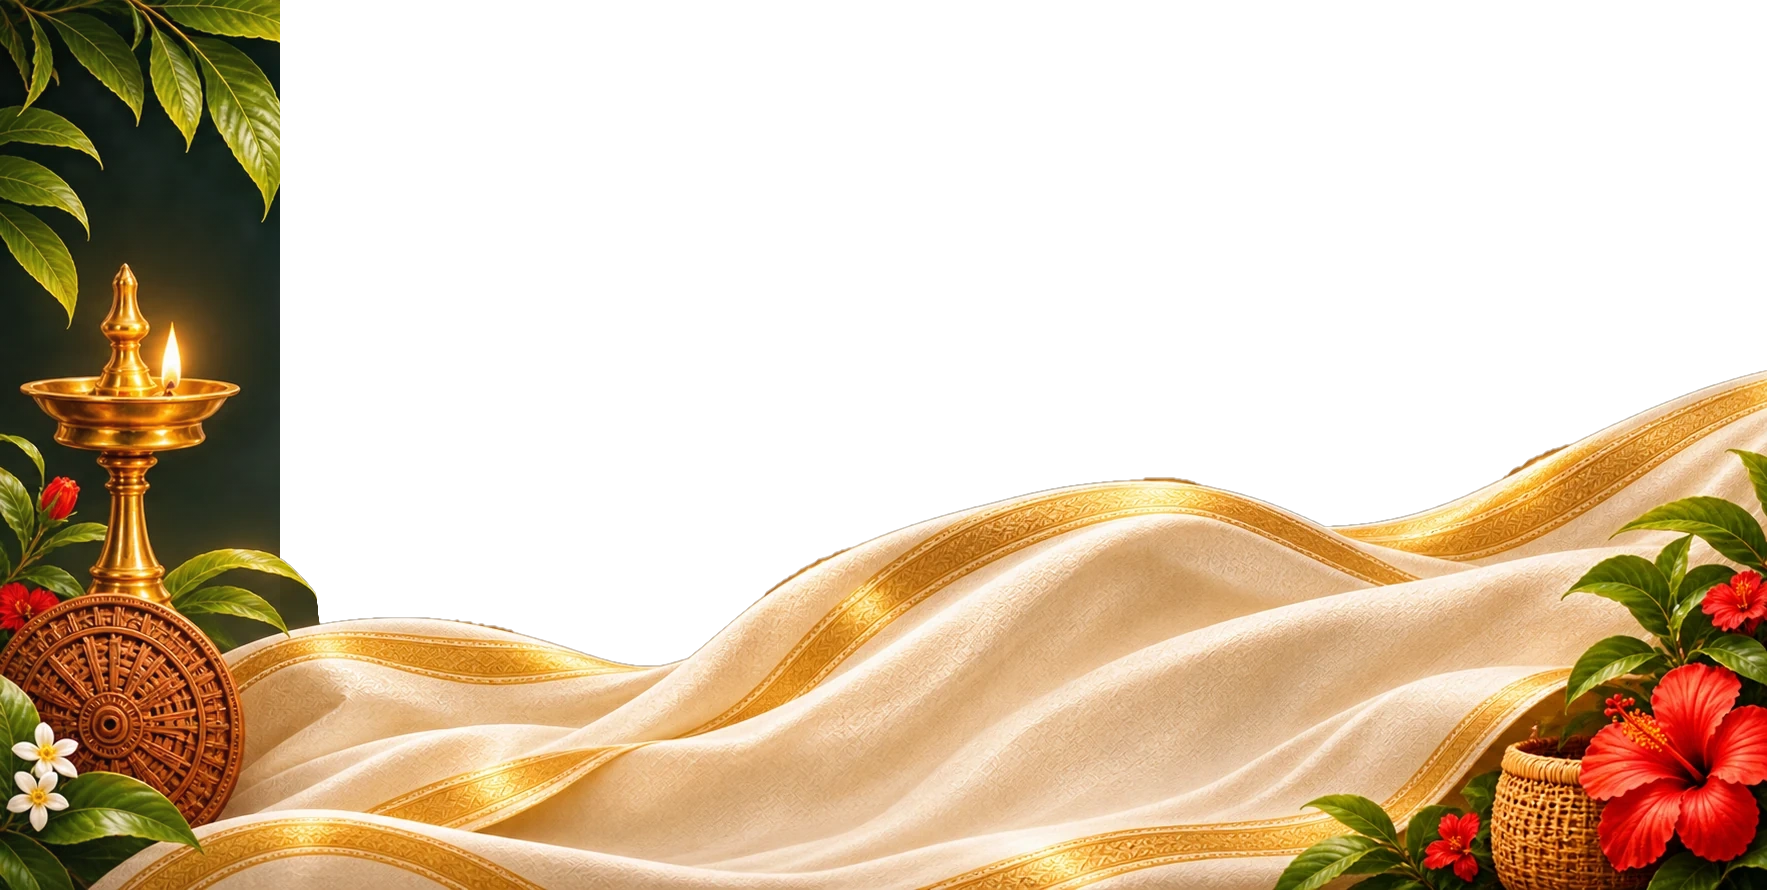
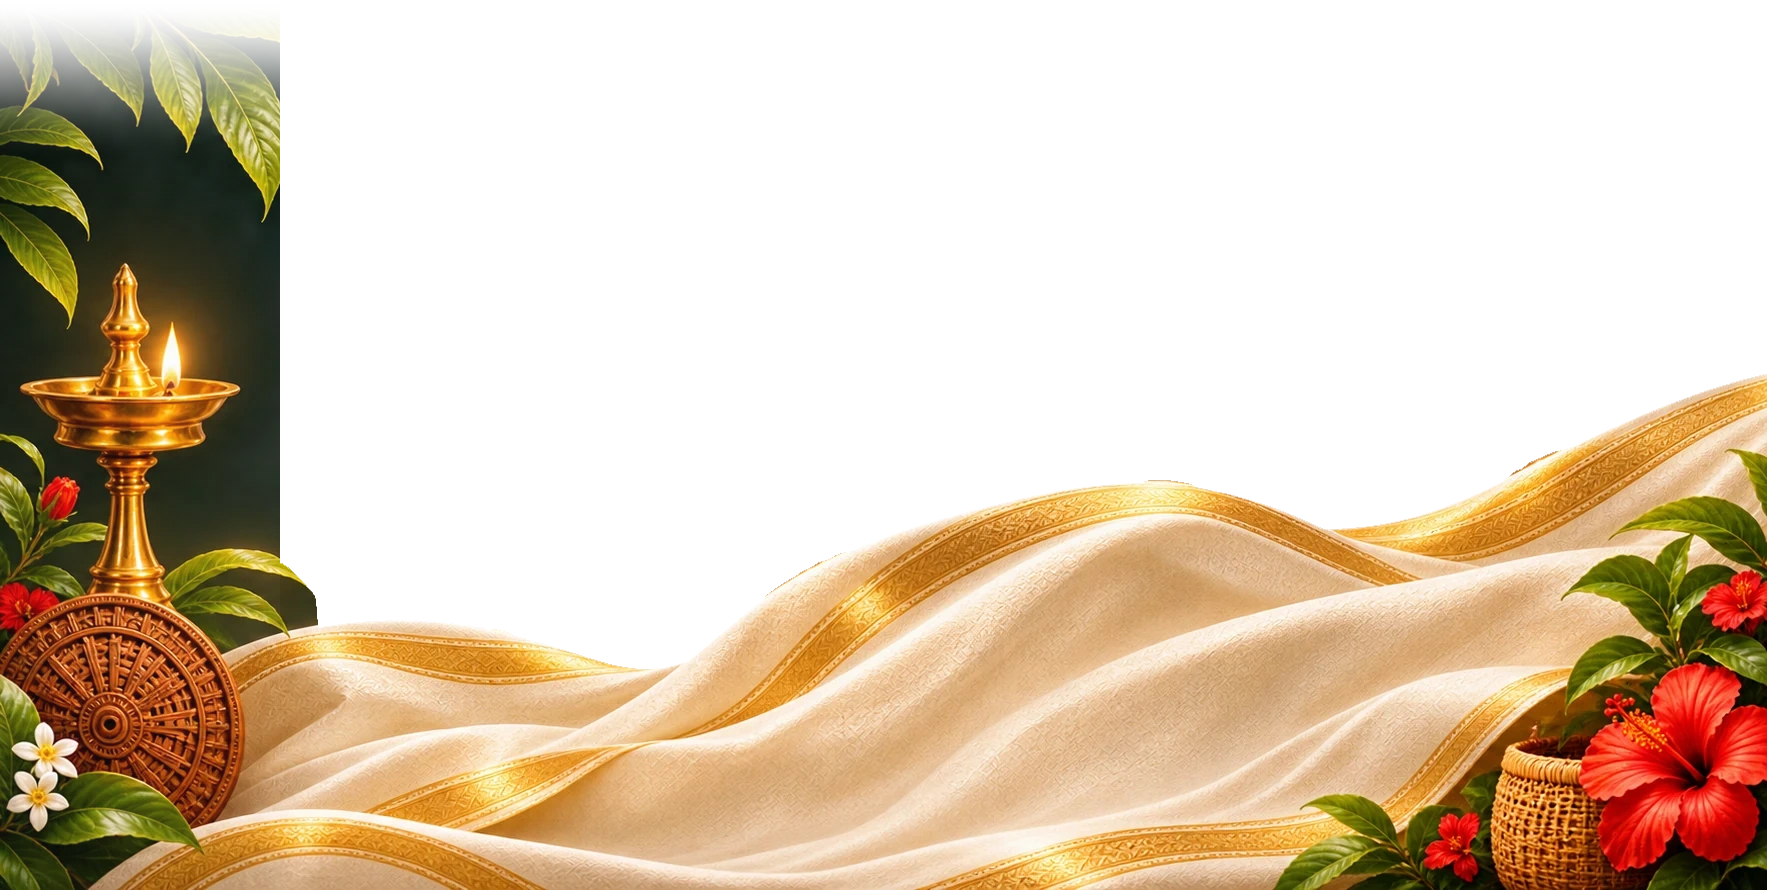
fix(hero): restore smooth top foliage fade and preserve clean Kasavu-Kathakali junction

diff --git a/src/app/hero-kerala.css b/src/app/hero-kerala.css
@@ -129,23 +129,11 @@
 .hero.lt-hero.mh .fg-mid {
   transform: none !important;
   will-change: auto !important;
-  -webkit-mask-image: linear-gradient(90deg, transparent 12%, #000 20%);
-  mask-image: linear-gradient(90deg, transparent 12%, #000 20%);
 }
 
-.hero.lt-hero.mh .fg-left {
-  z-index: 7;
-  transform: none !important;
-  will-change: auto !important;
-  transform-origin: 0 100%;
-  -webkit-mask-image: linear-gradient(90deg, #000 12%, transparent 20%), linear-gradient(180deg, transparent 0%, #000 20%);
-  mask-image: linear-gradient(90deg, #000 12%, transparent 20%), linear-gradient(180deg, transparent 0%, #000 20%);
-  -webkit-mask-composite: source-in;
-  mask-composite: intersect;
-}
-
+.hero.lt-hero.mh .fg-left,
 .hero.lt-hero.mh .fg-right {
-  display: none;
+  display: none !important;
 }
 
 .hero.lt-hero.mh .lamp-glow {
